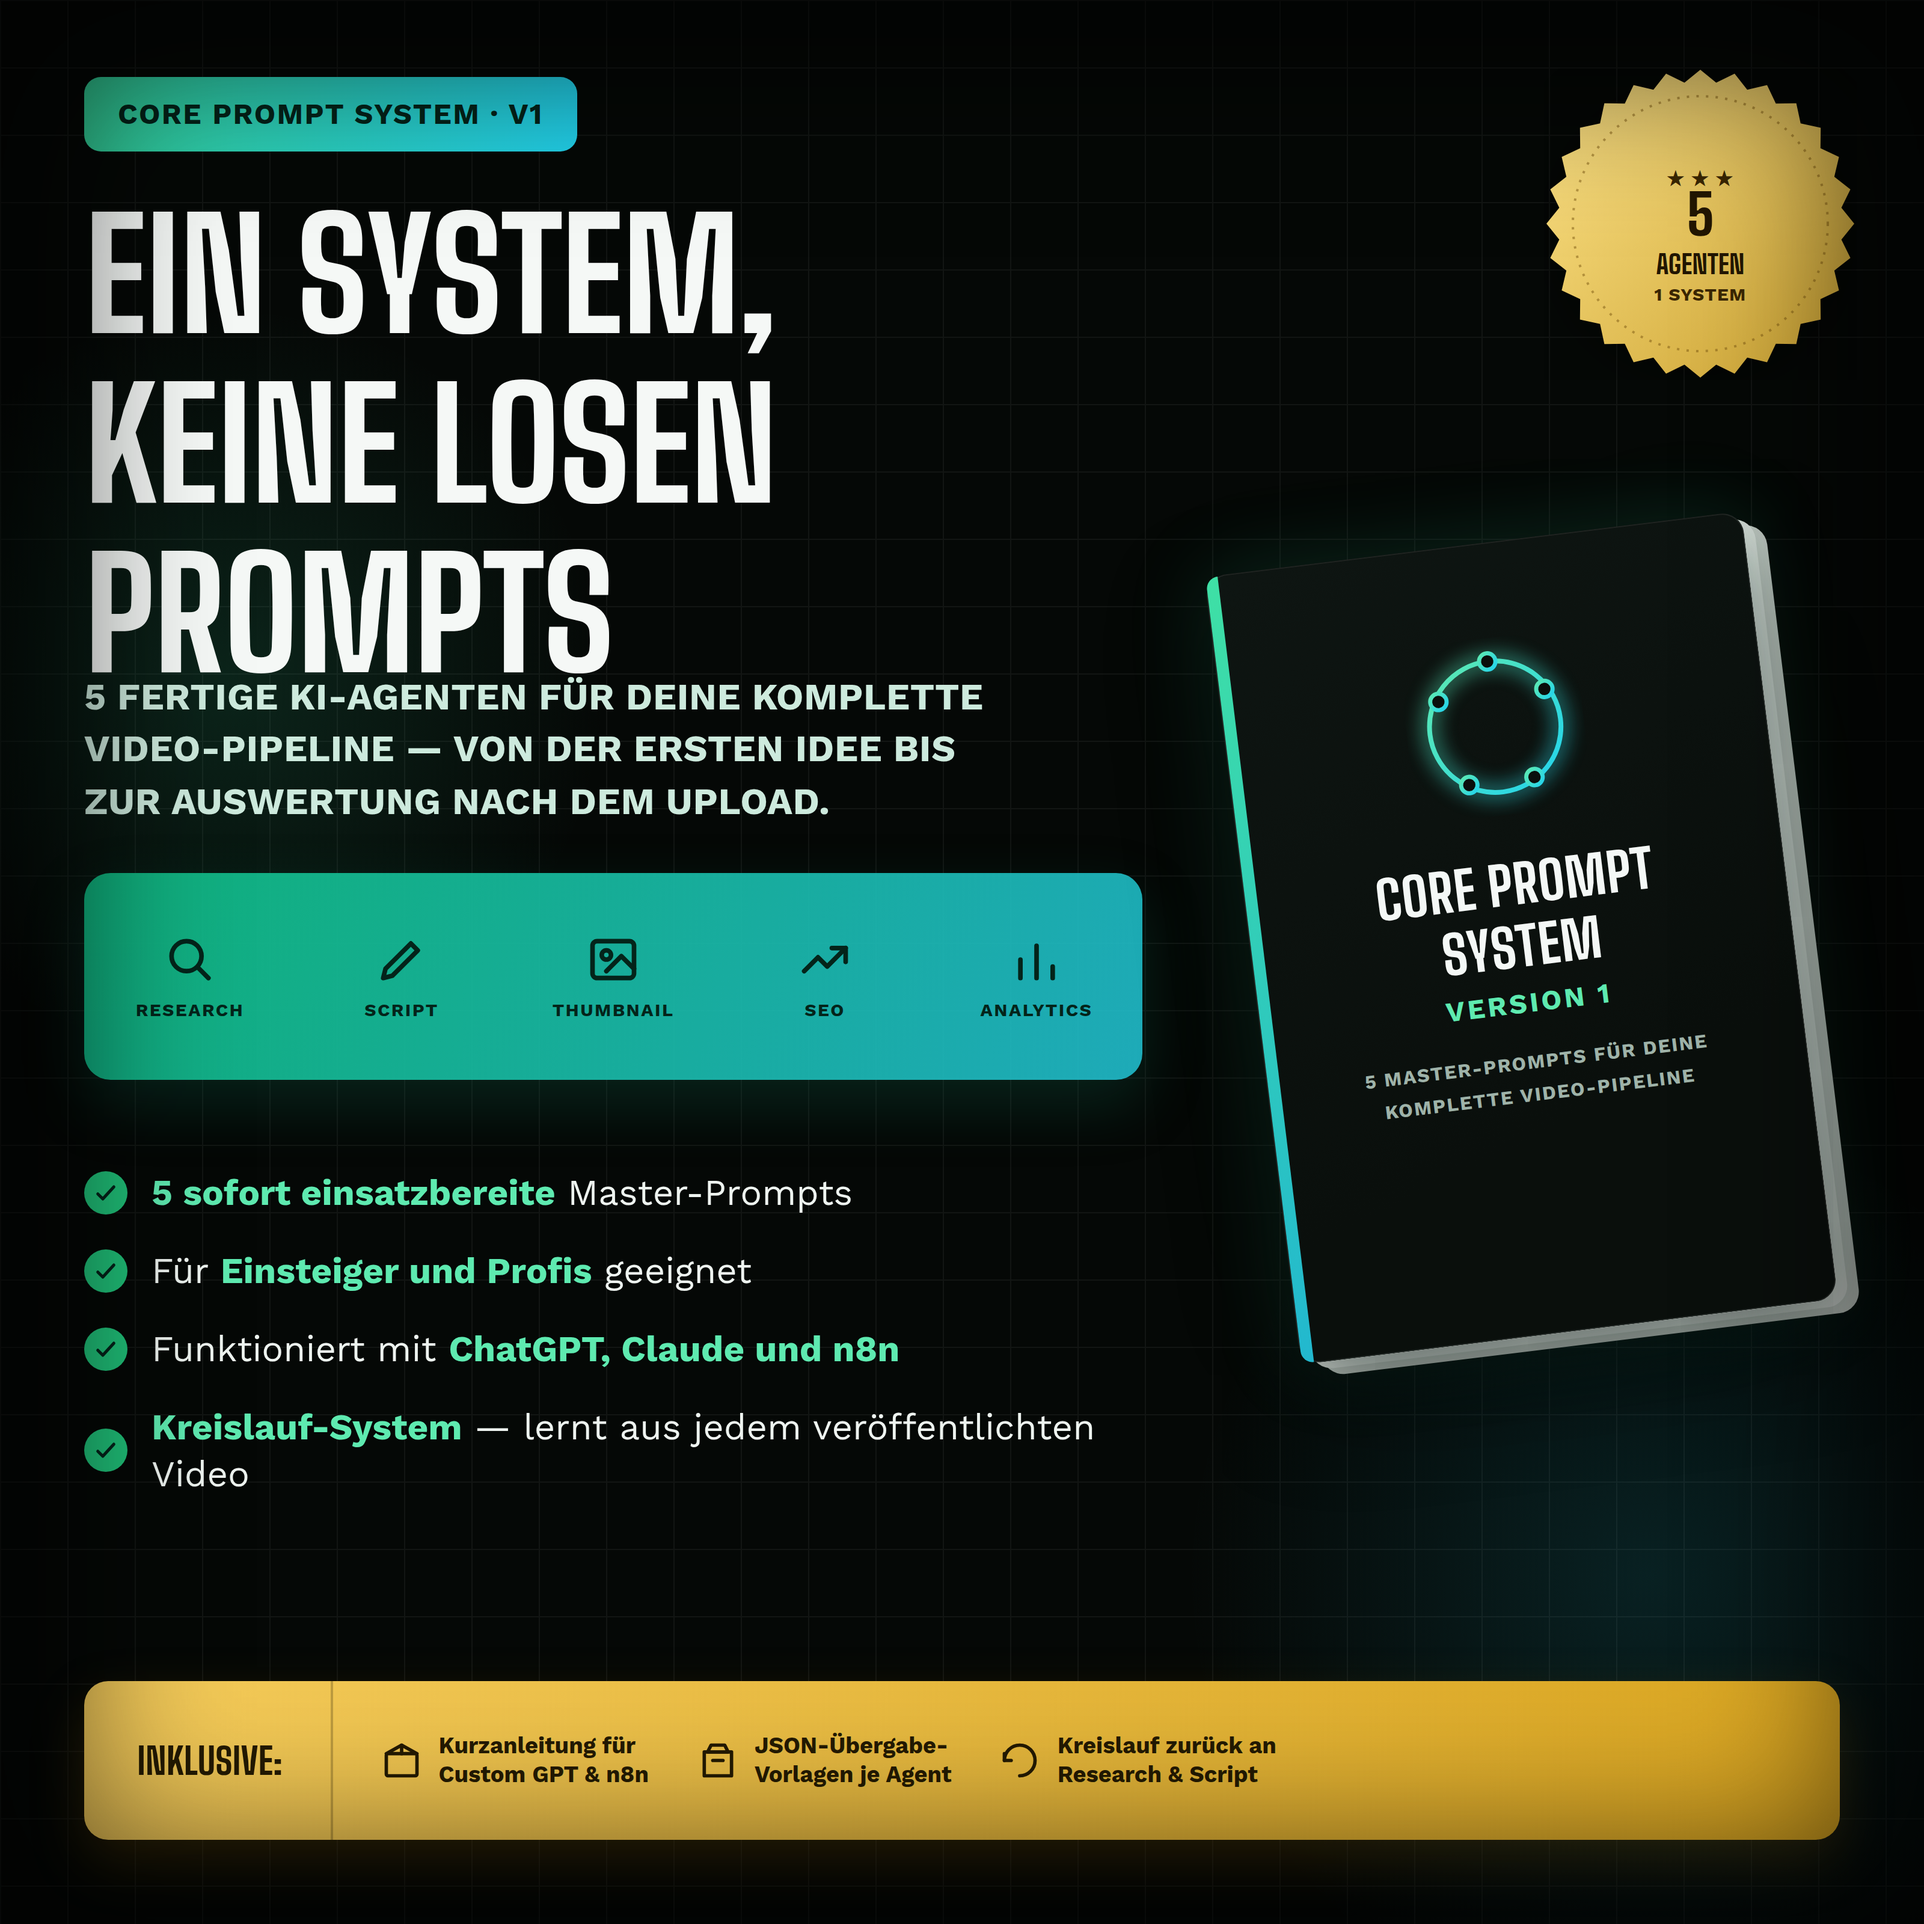
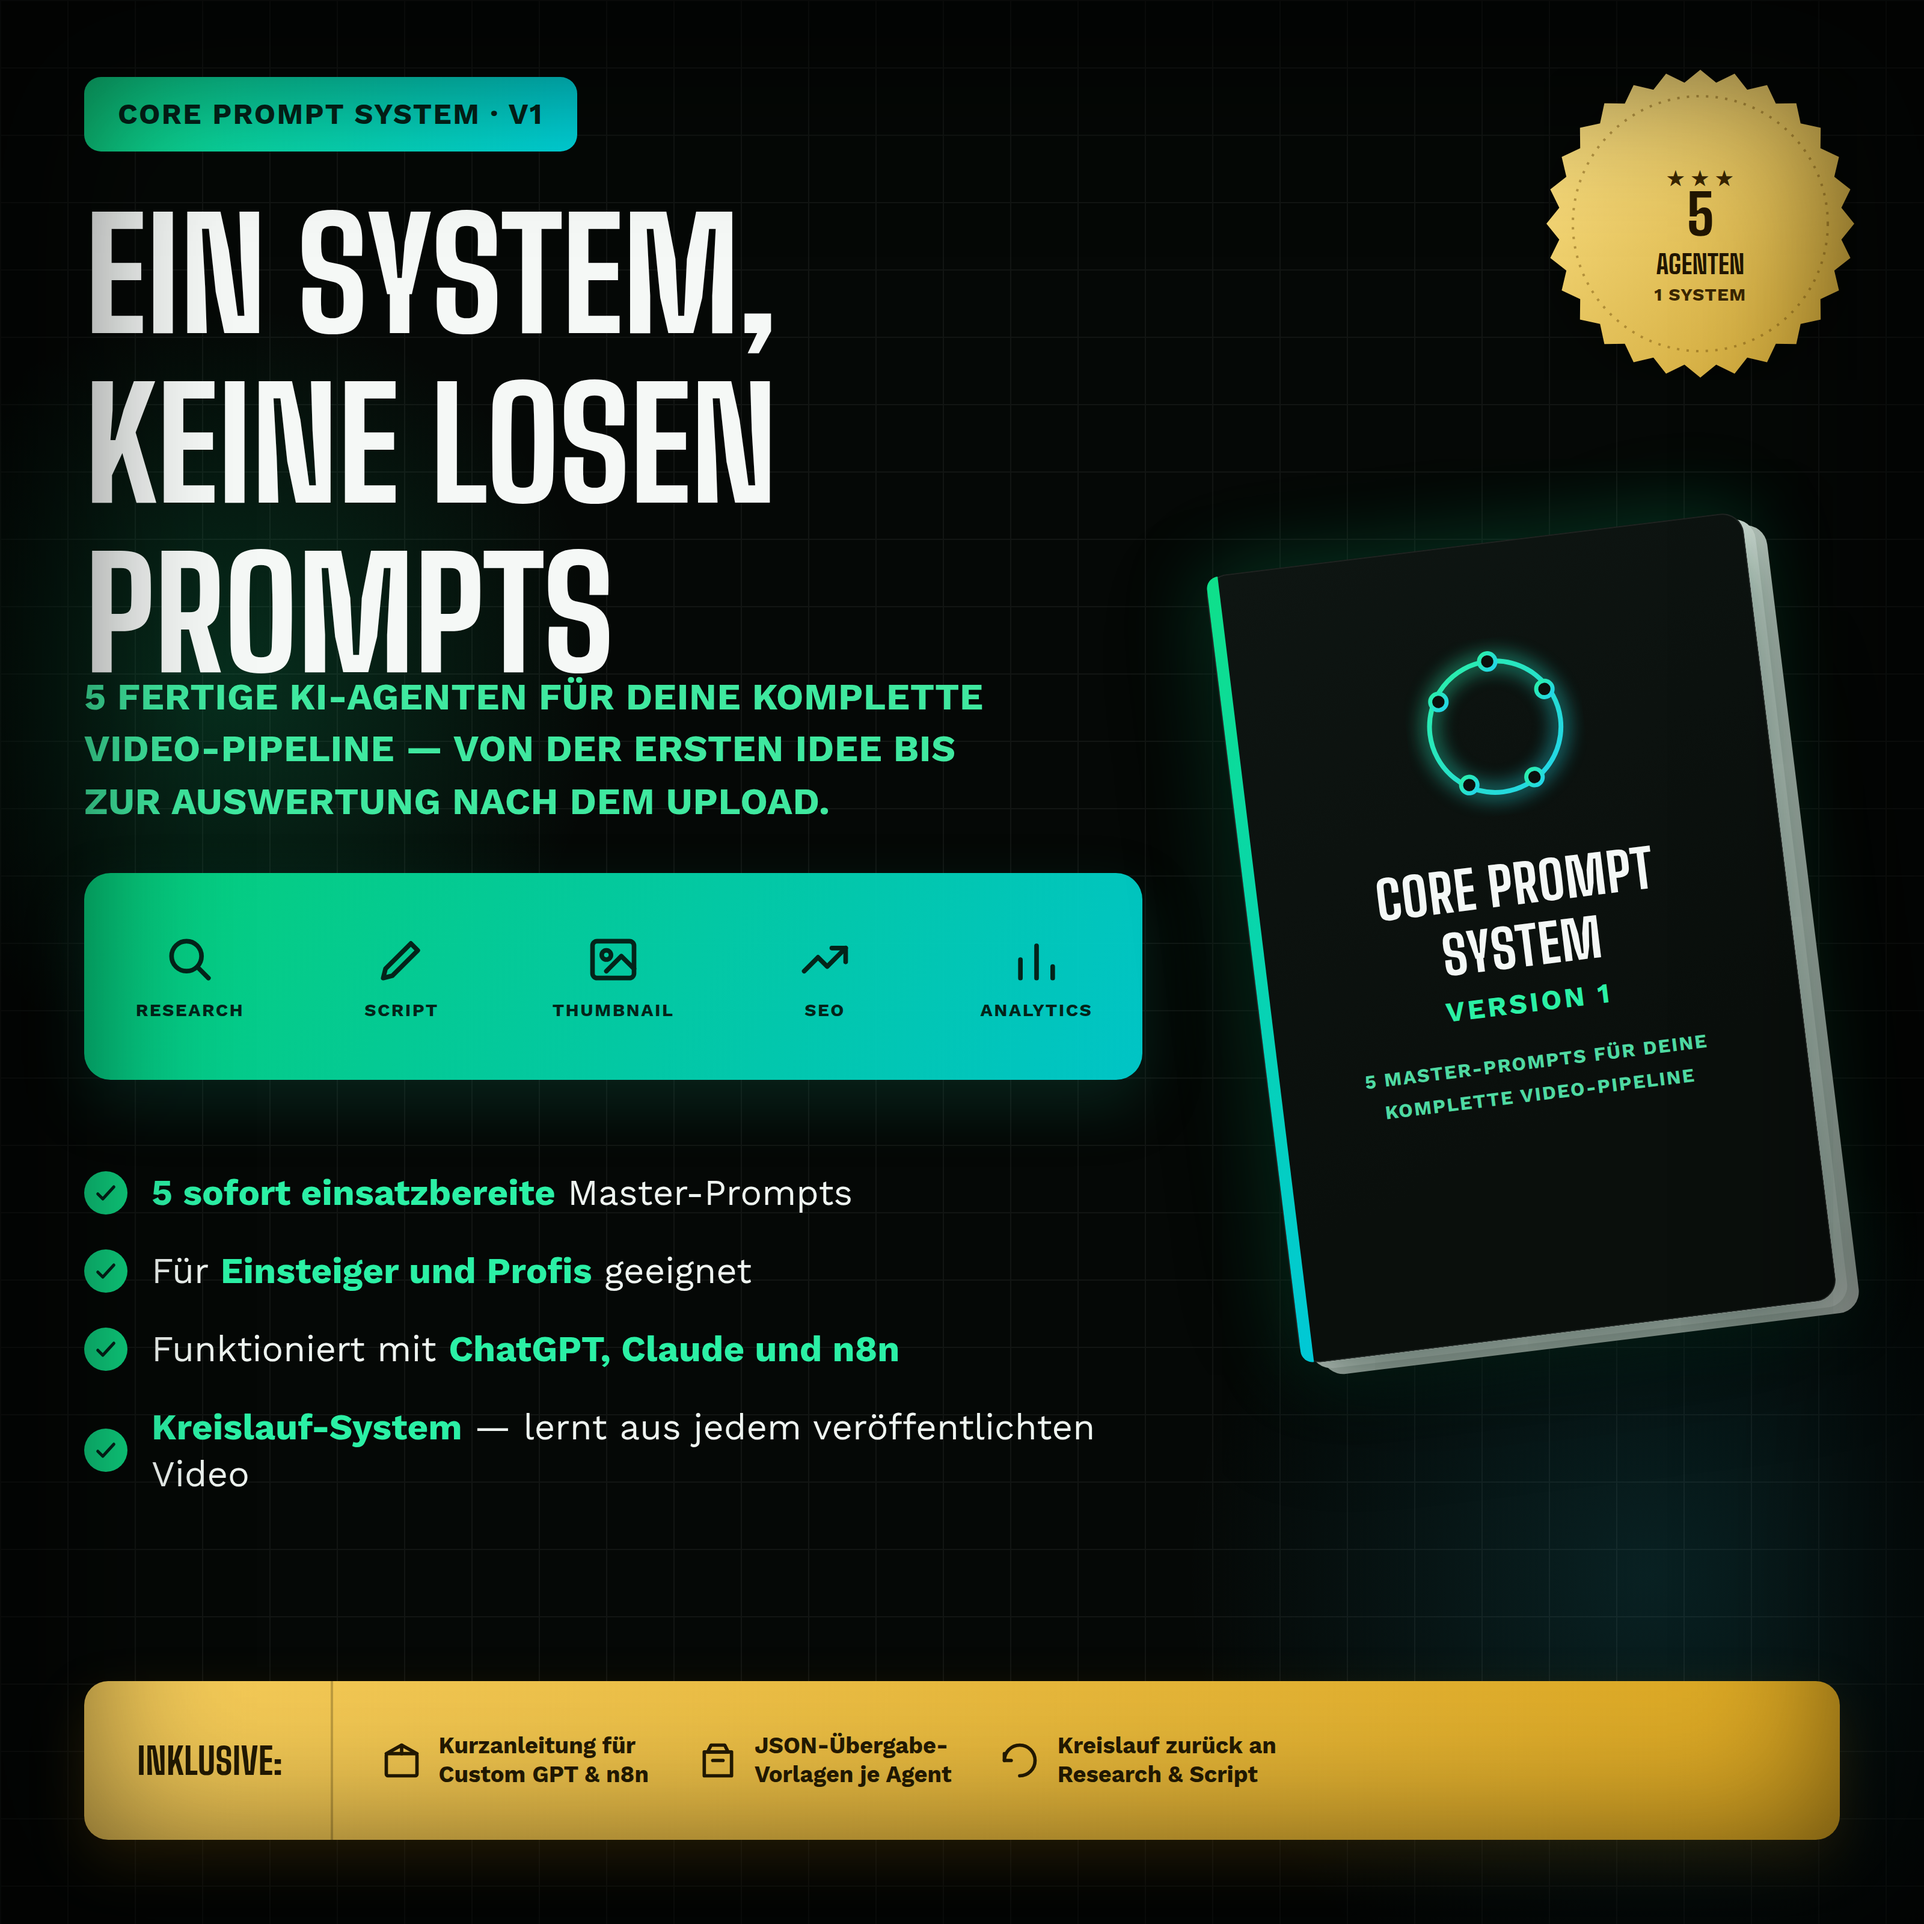
Strengthen the green in cover-v2
More saturated emerald/cyan throughout (pill, icon bar, checklist,
book accents), and the subheadline + book description text now match
that same vivid green instead of the previous pale/gray tones.

Claude-Session: https://claude.ai/code/session_014363QBKaQYfH6ksKrjrU3e

diff --git a/products/ai-content-empire-prompt-system/cover-assets/cover-v2.html b/products/ai-content-empire-prompt-system/cover-assets/cover-v2.html
@@ -19,7 +19,7 @@
     background-size: 56px 56px;
   }
   .glow-1 { position:absolute; left:-260px; top:120px; width:900px; height:900px;
-    background: radial-gradient(closest-side, rgba(52,211,153,0.14), transparent 70%); }
+    background: radial-gradient(closest-side, rgba(15,224,138,0.18), transparent 70%); }
   .glow-2 { position:absolute; right:-320px; bottom:-260px; width:1100px; height:1100px;
     background: radial-gradient(closest-side, rgba(34,211,238,0.12), transparent 70%); }
   .vignette { position:absolute; inset:0; box-shadow: inset 0 0 260px 60px rgba(0,0,0,0.6); }
@@ -28,7 +28,7 @@
   .pill {
     position:absolute; left:70px; top:64px; height:62px; padding:0 28px;
     display:flex; align-items:center; border-radius:14px;
-    background: linear-gradient(100deg,#34d399,#22d3ee);
+    background: linear-gradient(100deg,#0fe08a,#00d8e0);
     font-family:"Work Sans"; font-weight:700; font-size:24px; letter-spacing:0.05em;
     color:#04241a; text-transform:uppercase;
   }
@@ -41,20 +41,20 @@
   }
   .headline .row { display:flex; align-items:center; gap:22px; }
   .headline .badge-v1 {
-    background: linear-gradient(100deg,#34d399,#22d3ee); color:#04241a;
+    background: linear-gradient(100deg,#0fe08a,#00d8e0); color:#04241a;
     border-radius:14px; padding:6px 26px 14px; font-size:96px; line-height:1;
   }
 
   .subhead {
     position:absolute; left:70px; top:558px; width:790px;
     font-family:"Work Sans"; font-weight:700; font-size:31px; line-height:1.4;
-    color:#cdeadd; text-transform:uppercase; letter-spacing:0.01em;
+    color:#3fe89f; text-transform:uppercase; letter-spacing:0.01em;
   }
 
   /* --- Icon-Leiste --- */
   .iconbar {
     position:absolute; left:70px; top:726px; width:880px; height:172px;
-    border-radius:22px; background:linear-gradient(120deg, rgba(16,185,129,0.94), rgba(34,197,214,0.86));
+    border-radius:22px; background:linear-gradient(120deg, rgba(6,209,124,0.98), rgba(0,212,214,0.92));
     display:flex; align-items:center; justify-content:space-around;
     box-shadow: 0 20px 50px rgba(16,120,90,0.25);
   }
@@ -69,13 +69,13 @@
   .checklist { position:absolute; left:70px; top:972px; width:860px; display:flex; flex-direction:column; gap:26px; }
   .check-row { display:flex; align-items:center; gap:20px; }
   .check-dot {
-    flex:0 0 auto; width:36px; height:36px; border-radius:50%; background:#20c37a;
+    flex:0 0 auto; width:36px; height:36px; border-radius:50%; background:#0fd984;
     display:flex; align-items:center; justify-content:center;
   }
   .check-row p {
     font-family:"Work Sans"; font-weight:400; font-size:30px; color:#eef4f0; line-height:1.3;
   }
-  .check-row b { color:#5eeab0; font-weight:700; }
+  .check-row b { color:#2bf0a5; font-weight:700; }
 
   /* --- Siegel oben rechts --- */
   .seal-wrap { position:absolute; right:56px; top:56px; width:260px; height:260px; }
@@ -89,7 +89,7 @@
   .book-wrap { position:absolute; left:990px; top:400px; width:560px; height:820px; }
   .book-glow {
     position:absolute; left:-50px; top:80px; width:660px; height:660px;
-    background: radial-gradient(closest-side, rgba(52,211,153,0.30), transparent 70%);
+    background: radial-gradient(closest-side, rgba(15,224,138,0.36), transparent 70%);
   }
   .page-edge-1, .page-edge-2, .book-front {
     position:absolute; width:450px; height:660px; border-radius:18px;
@@ -101,13 +101,13 @@
   .book-front {
     background: linear-gradient(160deg,#0e1512 0%, #0a0f0c 70%);
     border: 1px solid rgba(255,255,255,0.09);
-    box-shadow: 0 34px 80px rgba(0,0,0,0.55), 0 0 70px rgba(52,211,153,0.18);
+    box-shadow: 0 34px 80px rgba(0,0,0,0.55), 0 0 70px rgba(15,224,138,0.26);
     display:flex; flex-direction:column; align-items:center;
     padding-top:78px;
   }
   .book-front .spine {
     position:absolute; left:0; top:0; bottom:0; width:10px;
-    background: linear-gradient(#3fe0a5,#22b8cf); border-radius:18px 0 0 18px;
+    background: linear-gradient(#0fe08a,#00c8d6); border-radius:18px 0 0 18px;
   }
   .ring-logo { width:148px; height:148px; }
   .book-front h2 {
@@ -116,11 +116,11 @@
   }
   .book-front .v1tag {
     margin-top:8px; font-family:"Work Sans"; font-weight:700; font-size:23px;
-    color:#5eeab0; letter-spacing:0.1em;
+    color:#2bf0a5; letter-spacing:0.1em;
   }
   .book-front .booksub {
     margin-top:22px; padding:0 40px; font-family:"Work Sans"; font-weight:700; font-size:16px;
-    letter-spacing:0.07em; text-transform:uppercase; color:#9fb3a9; text-align:center; line-height:1.7;
+    letter-spacing:0.07em; text-transform:uppercase; color:#4fd9a2; text-align:center; line-height:1.7;
   }
 
   /* --- Bonus-Leiste unten --- */
@@ -226,7 +226,7 @@
       <svg class="ring-logo" viewBox="0 0 130 130">
         <defs>
           <linearGradient id="ringGrad" x1="0" y1="0" x2="1" y2="1">
-            <stop offset="0" stop-color="#5eeab0"/>
+            <stop offset="0" stop-color="#2bf0a5"/>
             <stop offset="1" stop-color="#22d3ee"/>
           </linearGradient>
           <filter id="ringGlow" x="-80%" y="-80%" width="260%" height="260%"><feGaussianBlur stdDeviation="7"/></filter>
